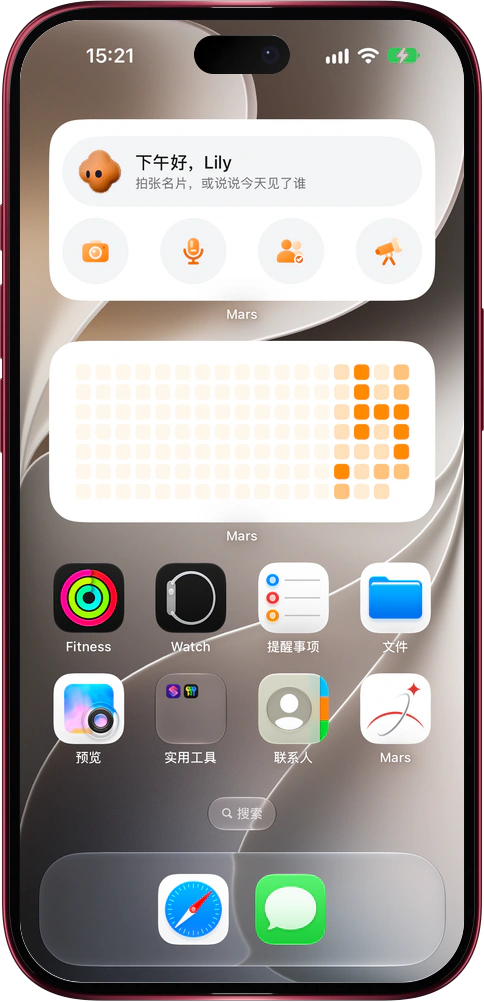
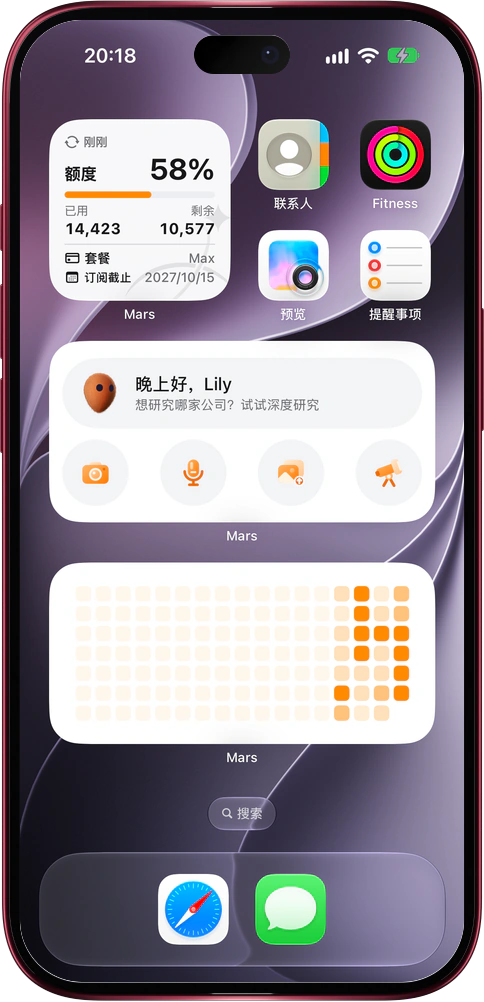
docs(changelog): sync CRM preview updates and screenshots
Changes:
- Publish CRM preview notes, localized screenshots and indexes; retain released history.

Validation:
- Generated output is current; all Markdown links resolve; staged whitespace check passes.

Impact:
- Public documentation only. Preview features remain unreleased; no production deployment or user data changes.

Traceability:
- Founder-approved GitHub changelog synchronization, 2026-10-22.

diff --git a/releases/crm-2026-10-24-mars-widgets-on-iphone.md b/releases/crm-2026-10-24-mars-widgets-on-iphone.md
@@ -1,11 +1,11 @@
 # Mars widgets for iPhone and Mac
 
-> **Preview** · 2026-10-24 · `0.1.1.7924`
+> **Preview** · 2026-10-24 · `0.1.1.7939`
 > These features are available in the preview version and have not been generally released.
 
 Reach Mars from the Home Screen or the desktop without hunting for the app.
 
-Touch and hold the Home Screen, choose Edit, then Add Widget, and pick Mars. Quick actions shows an orange plush bot that greets you by name for the time of day, with an event starting within the next two hours or a suggestion such as snapping a business card. Its four buttons open a new conversation ready for the camera, voice input, relationship information or deep research. Credit usage shows the last weeks of your daily token heatmap, the same as the usage page, and opens that page when tapped. The small credits card shows the share of credits used, used and remaining credits, your plan and when the subscription ends, in light, dark or following the system. On a Mac with the Mars app, right-click the desktop, choose Edit Widgets and search for Mars to place the same widgets on the desktop. On the Lock Screen, add the Mars logo, voice input and camera upload buttons, and a plan and credits bar whose ring shows the share of credits left, with your plan, the percentage left and remaining / total credits. Widgets show what the app last synced: it refreshes them when it opens and when you leave it, so the Lock Screen reflects credits you just spent, and signing out clears them. Siri and Spotlight also offer new chat, voice input, upload screenshot and view reminders.
+Touch and hold the Home Screen, choose Edit, then Add Widget, and pick Mars. Quick actions shows an orange plush bot that greets you by name for the time of day, with your next event, a person worth reaching out to or a suggestion such as snapping a business card; an event about to start stays until it begins. Its four buttons open a new conversation ready for the camera, voice input, a photo from your library or deep research. Credit usage shows the last weeks of your daily token heatmap, the same as the usage page, and opens that page when tapped. The small credits card shows the share of credits used, used and remaining credits, your plan and when the subscription ends, in light, dark or following the system. On a Mac with the Mars app, right-click the desktop, choose Edit Widgets and search for Mars to place the same widgets on the desktop. On the Lock Screen, add the Mars logo, voice input and camera upload buttons, and a plan and credits bar whose ring shows the share of credits left, with your plan, the percentage left and remaining / total credits. Widgets show what the app last synced: it refreshes them when it opens and when you leave it, so the Lock Screen reflects credits you just spent, and signing out clears them. Siri and Spotlight also offer new chat, voice input, upload screenshot and view reminders.
 
 Capture a business card, a voice note or a research question the moment it comes up, and always know how many credits you have left.
 

diff --git a/releases/crm-2026-10-24-mars-widgets-on-iphone.zh-CN.md b/releases/crm-2026-10-24-mars-widgets-on-iphone.zh-CN.md
@@ -1,11 +1,11 @@
 # iPhone 和 Mac 桌面小组件
 
-> **预览** · 2026-10-24 · `0.1.1.7924`
+> **预览** · 2026-10-24 · `0.1.1.7939`
 > 以下功能目前处于预览阶段，尚未正式上线。
 
 不用找应用，在主屏幕或桌面上就能叫出 Mars。
 
-长按主屏幕，选择「编辑」→「添加小组件」，找到 Mars 即可。「Mars 快捷入口」上有一只橙色毛绒机器人，按时段叫出你的名字问好；两小时内有事件时显示该事件，否则给出「拍张名片」之类的建议。下方四个按钮分别新建一个对话并直接进入拍照、语音输入、关系信息或深度研究。「额度消耗」显示最近几周每天的 Tokens 消耗热力图，与额度使用情况页一致，点按即可打开该页。小尺寸的「额度卡片」显示已用额度占比、已用和剩余额度、套餐和订阅截止时间，可选浅色、深色或跟随系统。在装有 Mars 的 Mac 上，右键点按桌面，选择「编辑小组件」并搜索 Mars，就能把同样的小组件放到桌面上。在锁屏上可以添加 Mars 标志、语音输入和拍照上传按钮，以及套餐与额度条：圆环显示剩余额度占比，旁边是套餐名称、剩余百分比和剩余 / 总额度。小组件显示的是应用最近一次同步的数据：打开应用和离开应用时都会刷新，所以刚用掉的额度会立即反映在锁屏上；退出登录后小组件会清空。Siri 和聚焦搜索也提供「开启新对话」「语音输入」「上传截图」「查看提醒」四个建议。
+长按主屏幕，选择「编辑」→「添加小组件」，找到 Mars 即可。「Mars 快捷入口」上有一只橙色毛绒机器人，按时段叫出你的名字问好；下一行轮流显示即将开始的事件、值得联系的人和「拍张名片」之类的建议，快开始的事件会一直显示到开始。下方四个按钮分别新建一个对话并直接进入拍照、语音输入、从图库上传或深度研究。「额度消耗」显示最近几周每天的 Tokens 消耗热力图，与额度使用情况页一致，点按即可打开该页。小尺寸的「额度卡片」显示已用额度占比、已用和剩余额度、套餐和订阅截止时间，可选浅色、深色或跟随系统。在装有 Mars 的 Mac 上，右键点按桌面，选择「编辑小组件」并搜索 Mars，就能把同样的小组件放到桌面上。在锁屏上可以添加 Mars 标志、语音输入和拍照上传按钮，以及套餐与额度条：圆环显示剩余额度占比，旁边是套餐名称、剩余百分比和剩余 / 总额度。小组件显示的是应用最近一次同步的数据：打开应用和离开应用时都会刷新，所以刚用掉的额度会立即反映在锁屏上；退出登录后小组件会清空。Siri 和聚焦搜索也提供「开启新对话」「语音输入」「上传截图」「查看提醒」四个建议。
 
 名片、语音和想研究的问题，想到就能记下；剩余额度也随时心中有数。
 

diff --git a/releases/crm-2026-10-24-mars-widgets-on-iphone.zh-HK.md b/releases/crm-2026-10-24-mars-widgets-on-iphone.zh-HK.md
@@ -1,11 +1,11 @@
 # iPhone 和 Mac 桌面小組件
 
-> **預覽** · 2026-10-24 · `0.1.1.7924`
+> **預覽** · 2026-10-24 · `0.1.1.7939`
 > 以下功能目前處於預覽階段，尚未正式上線。
 
 不用找應用，在主屏幕或桌面上就能叫出 Mars。
 
-長按主屏幕，選擇「編輯」→「添加小組件」，找到 Mars 即可。「Mars 快捷入口」上有一隻橙色毛絨機器人，按時段叫出你的名字問好；兩小時內有事件時顯示該事件，否則給出「拍張名片」之類的建議。下方四個按鈕分別新建一個對話並直接進入拍照、語音輸入、關係信息或深度研究。「額度消耗」顯示最近幾週每天的 Tokens 消耗熱力圖，與額度使用情況頁一致，點按即可打開該頁。小尺寸的「額度卡片」顯示已用額度佔比、已用和剩餘額度、套餐和訂閲截止時間，可選淺色、深色或跟隨系統。在裝有 Mars 的 Mac 上，右鍵點按桌面，選擇「編輯小組件」並搜索 Mars，就能把同樣的小組件放到桌面上。在鎖屏上可以添加 Mars 標誌、語音輸入和拍照上傳按鈕，以及套餐與額度條：圓環顯示剩餘額度佔比，旁邊是套餐名稱、剩餘百分比和剩餘 / 總額度。小組件顯示的是應用最近一次同步的數據：打開應用和離開應用時都會刷新，所以剛用掉的額度會立即反映在鎖屏上；退出登錄後小組件會清空。Siri 和聚焦搜索也提供「開啓新對話」「語音輸入」「上傳截圖」「查看提醒」四個建議。
+長按主屏幕，選擇「編輯」→「添加小組件」，找到 Mars 即可。「Mars 快捷入口」上有一隻橙色毛絨機器人，按時段叫出你的名字問好；下一行輪流顯示即將開始的事件、值得聯繫的人和「拍張名片」之類的建議，快開始的事件會一直顯示到開始。下方四個按鈕分別新建一個對話並直接進入拍照、語音輸入、從圖庫上傳或深度研究。「額度消耗」顯示最近幾週每天的 Tokens 消耗熱力圖，與額度使用情況頁一致，點按即可打開該頁。小尺寸的「額度卡片」顯示已用額度佔比、已用和剩餘額度、套餐和訂閲截止時間，可選淺色、深色或跟隨系統。在裝有 Mars 的 Mac 上，右鍵點按桌面，選擇「編輯小組件」並搜索 Mars，就能把同樣的小組件放到桌面上。在鎖屏上可以添加 Mars 標誌、語音輸入和拍照上傳按鈕，以及套餐與額度條：圓環顯示剩餘額度佔比，旁邊是套餐名稱、剩餘百分比和剩餘 / 總額度。小組件顯示的是應用最近一次同步的數據：打開應用和離開應用時都會刷新，所以剛用掉的額度會立即反映在鎖屏上；退出登錄後小組件會清空。Siri 和聚焦搜索也提供「開啓新對話」「語音輸入」「上傳截圖」「查看提醒」四個建議。
 
 名片、語音和想研究的問題，想到就能記下；剩餘額度也隨時心中有數。
 

diff --git a/README.zh-CN.md b/README.zh-CN.md
@@ -11,7 +11,7 @@
 
 *示意图，使用虚构演示数据。*
 
-- **2026-10-24** · [iPhone 和 Mac 桌面小组件](releases/crm-2026-10-24-mars-widgets-on-iphone.zh-CN.md) · 预览 · `0.1.1.7924`
+- **2026-10-24** · [iPhone 和 Mac 桌面小组件](releases/crm-2026-10-24-mars-widgets-on-iphone.zh-CN.md) · 预览 · `0.1.1.7939`
 - **2026-10-23** · [不登录读取网页](releases/crm-2026-10-23-read-pages-without-your-login.zh-CN.md) · 预览 · `0.1.1.7618`
 - **2026-10-23** · [按价值排序](releases/crm-2026-10-23-sort-by-value.zh-CN.md) · 预览 · `0.1.1.7618`
 - **2026-10-22** · [Mars 看懂社交媒体视频](releases/crm-2026-10-22-mars-watches-social-videos.zh-CN.md) · 预览 · `0.1.1.7433`

diff --git a/README.zh-HK.md b/README.zh-HK.md
@@ -11,7 +11,7 @@
 
 *示意圖，使用虛構演示資料。*
 
-- **2026-10-24** · [iPhone 和 Mac 桌面小組件](releases/crm-2026-10-24-mars-widgets-on-iphone.zh-HK.md) · 預覽 · `0.1.1.7924`
+- **2026-10-24** · [iPhone 和 Mac 桌面小組件](releases/crm-2026-10-24-mars-widgets-on-iphone.zh-HK.md) · 預覽 · `0.1.1.7939`
 - **2026-10-23** · [不登錄讀取網頁](releases/crm-2026-10-23-read-pages-without-your-login.zh-HK.md) · 預覽 · `0.1.1.7618`
 - **2026-10-23** · [按價值排序](releases/crm-2026-10-23-sort-by-value.zh-HK.md) · 預覽 · `0.1.1.7618`
 - **2026-10-22** · [Mars 看懂社交媒體視頻](releases/crm-2026-10-22-mars-watches-social-videos.zh-HK.md) · 預覽 · `0.1.1.7433`

diff --git a/README.md b/README.md
@@ -11,7 +11,7 @@
 
 *Illustration using fictional demo data.*
 
-- **2026-10-24** · [Mars widgets for iPhone and Mac](releases/crm-2026-10-24-mars-widgets-on-iphone.md) · Preview · `0.1.1.7924`
+- **2026-10-24** · [Mars widgets for iPhone and Mac](releases/crm-2026-10-24-mars-widgets-on-iphone.md) · Preview · `0.1.1.7939`
 - **2026-10-23** · [Web pages read without your login](releases/crm-2026-10-23-read-pages-without-your-login.md) · Preview · `0.1.1.7618`
 - **2026-10-23** · [Sort by value](releases/crm-2026-10-23-sort-by-value.md) · Preview · `0.1.1.7618`
 - **2026-10-22** · [Mars understands social media videos](releases/crm-2026-10-22-mars-watches-social-videos.md) · Preview · `0.1.1.7433`

diff --git a/CHANGELOG.md b/CHANGELOG.md
@@ -9,7 +9,7 @@
 
 ### [Mars widgets for iPhone and Mac](releases/crm-2026-10-24-mars-widgets-on-iphone.md)
 
-**Preview** · 2026-10-24 · `0.1.1.7924`
+**Preview** · 2026-10-24 · `0.1.1.7939`
 
 Mars widgets arrive on the iPhone Home Screen, the Lock Screen and the Mac desktop: start a chat, voice note or photo in one tap, and see your usage and credits left at a glance.
 

diff --git a/CHANGELOG.zh-CN.md b/CHANGELOG.zh-CN.md
@@ -9,7 +9,7 @@
 
 ### [iPhone 和 Mac 桌面小组件](releases/crm-2026-10-24-mars-widgets-on-iphone.zh-CN.md)
 
-**预览** · 2026-10-24 · `0.1.1.7924`
+**预览** · 2026-10-24 · `0.1.1.7939`
 
 Mars 小组件登陆 iPhone 主屏幕、锁屏和 Mac 桌面：一键开始对话、语音或拍照，用量和剩余额度一眼可见。
 

diff --git a/CHANGELOG.zh-HK.md b/CHANGELOG.zh-HK.md
@@ -9,7 +9,7 @@
 
 ### [iPhone 和 Mac 桌面小組件](releases/crm-2026-10-24-mars-widgets-on-iphone.zh-HK.md)
 
-**預覽** · 2026-10-24 · `0.1.1.7924`
+**預覽** · 2026-10-24 · `0.1.1.7939`
 
 Mars 小組件登陸 iPhone 主屏幕、鎖屏和 Mac 桌面：一鍵開始對話、語音或拍照，用量和剩餘額度一眼可見。
 
